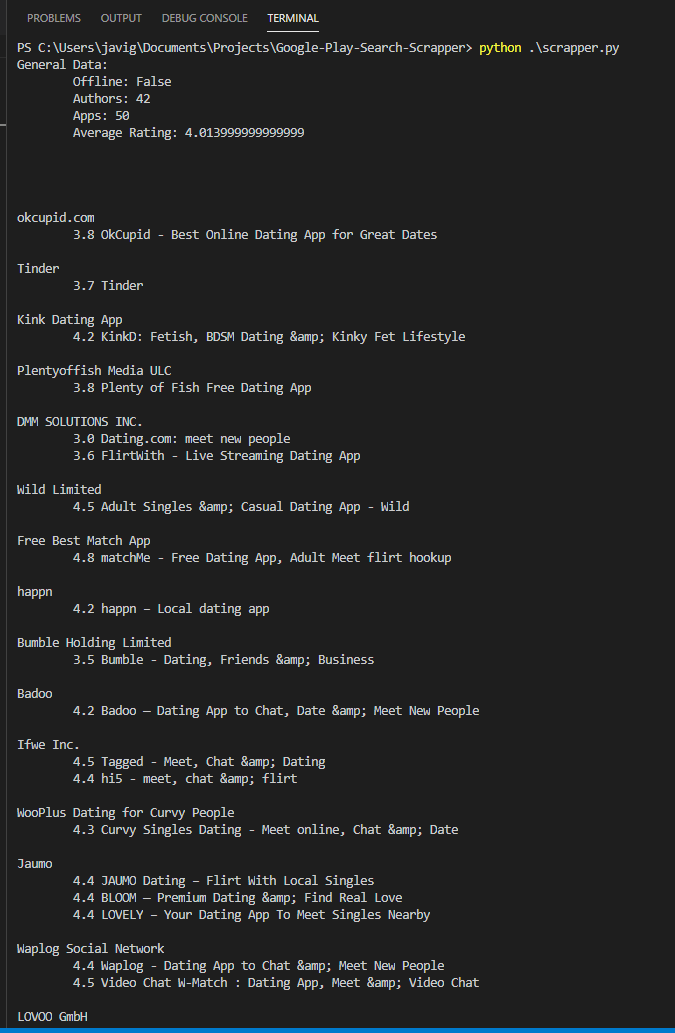
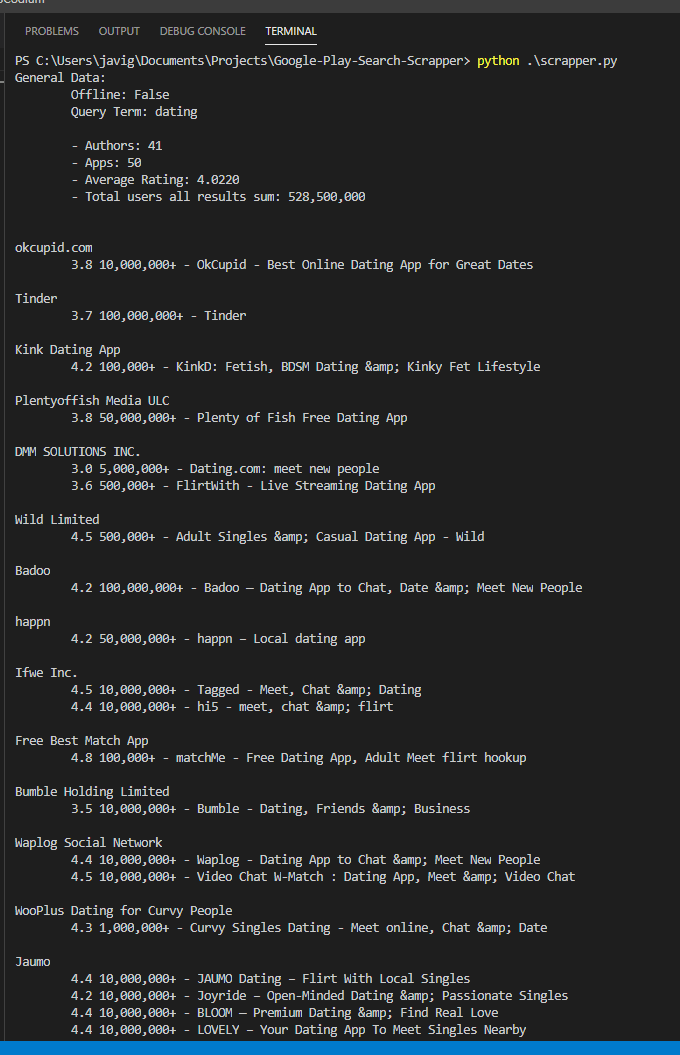
Update readme with downloads changes

Changed region(s): [[0.0, 0.0, 1.0, 1.0], [0.8089, 0.5266, 0.84, 0.5886], [0.7467, 0.5266, 0.7778, 0.5576]]

diff --git a/README.md b/README.md
@@ -12,13 +12,17 @@ Configuration is inside scrapper.py file.
 ![](/readme_files/config_example.png)
 
     - manual_data_scrap (True/False)
-    Define if the data scrap from the search have to be done from the source code paste in the             manual_data_scrap file or the search should be done with the above config terms.
+    Define if the data scrap from the search have to be done from the source code paste in the manual_data_scrap file or the search should be done with the above config terms.
 
     - search_word
     Term to be search in Google Play Store
 
     - country_code
     Country code of of the country in which the search must be done.
+
+    - number_downloads
+    Shows the number of users that have downloaded the apps in the search in total and per app.
+    # Warning: This options increments significantly the execution time beware of how many results are you looking at.
 
 # Result
 
@@ -30,7 +34,10 @@ The data scrapper shows:
 - Rating average of the apps in the search
 
 For each author it returns:
-- The apps with their rating and their name
+- The apps with:
+    - Rating
+    - Downloads number (in case selected in the configuration) 
+    - Name
 
 (With the correct print it could returns the author and the apps links, but I don't needed and I don't print it, but is in the final data map)
 
